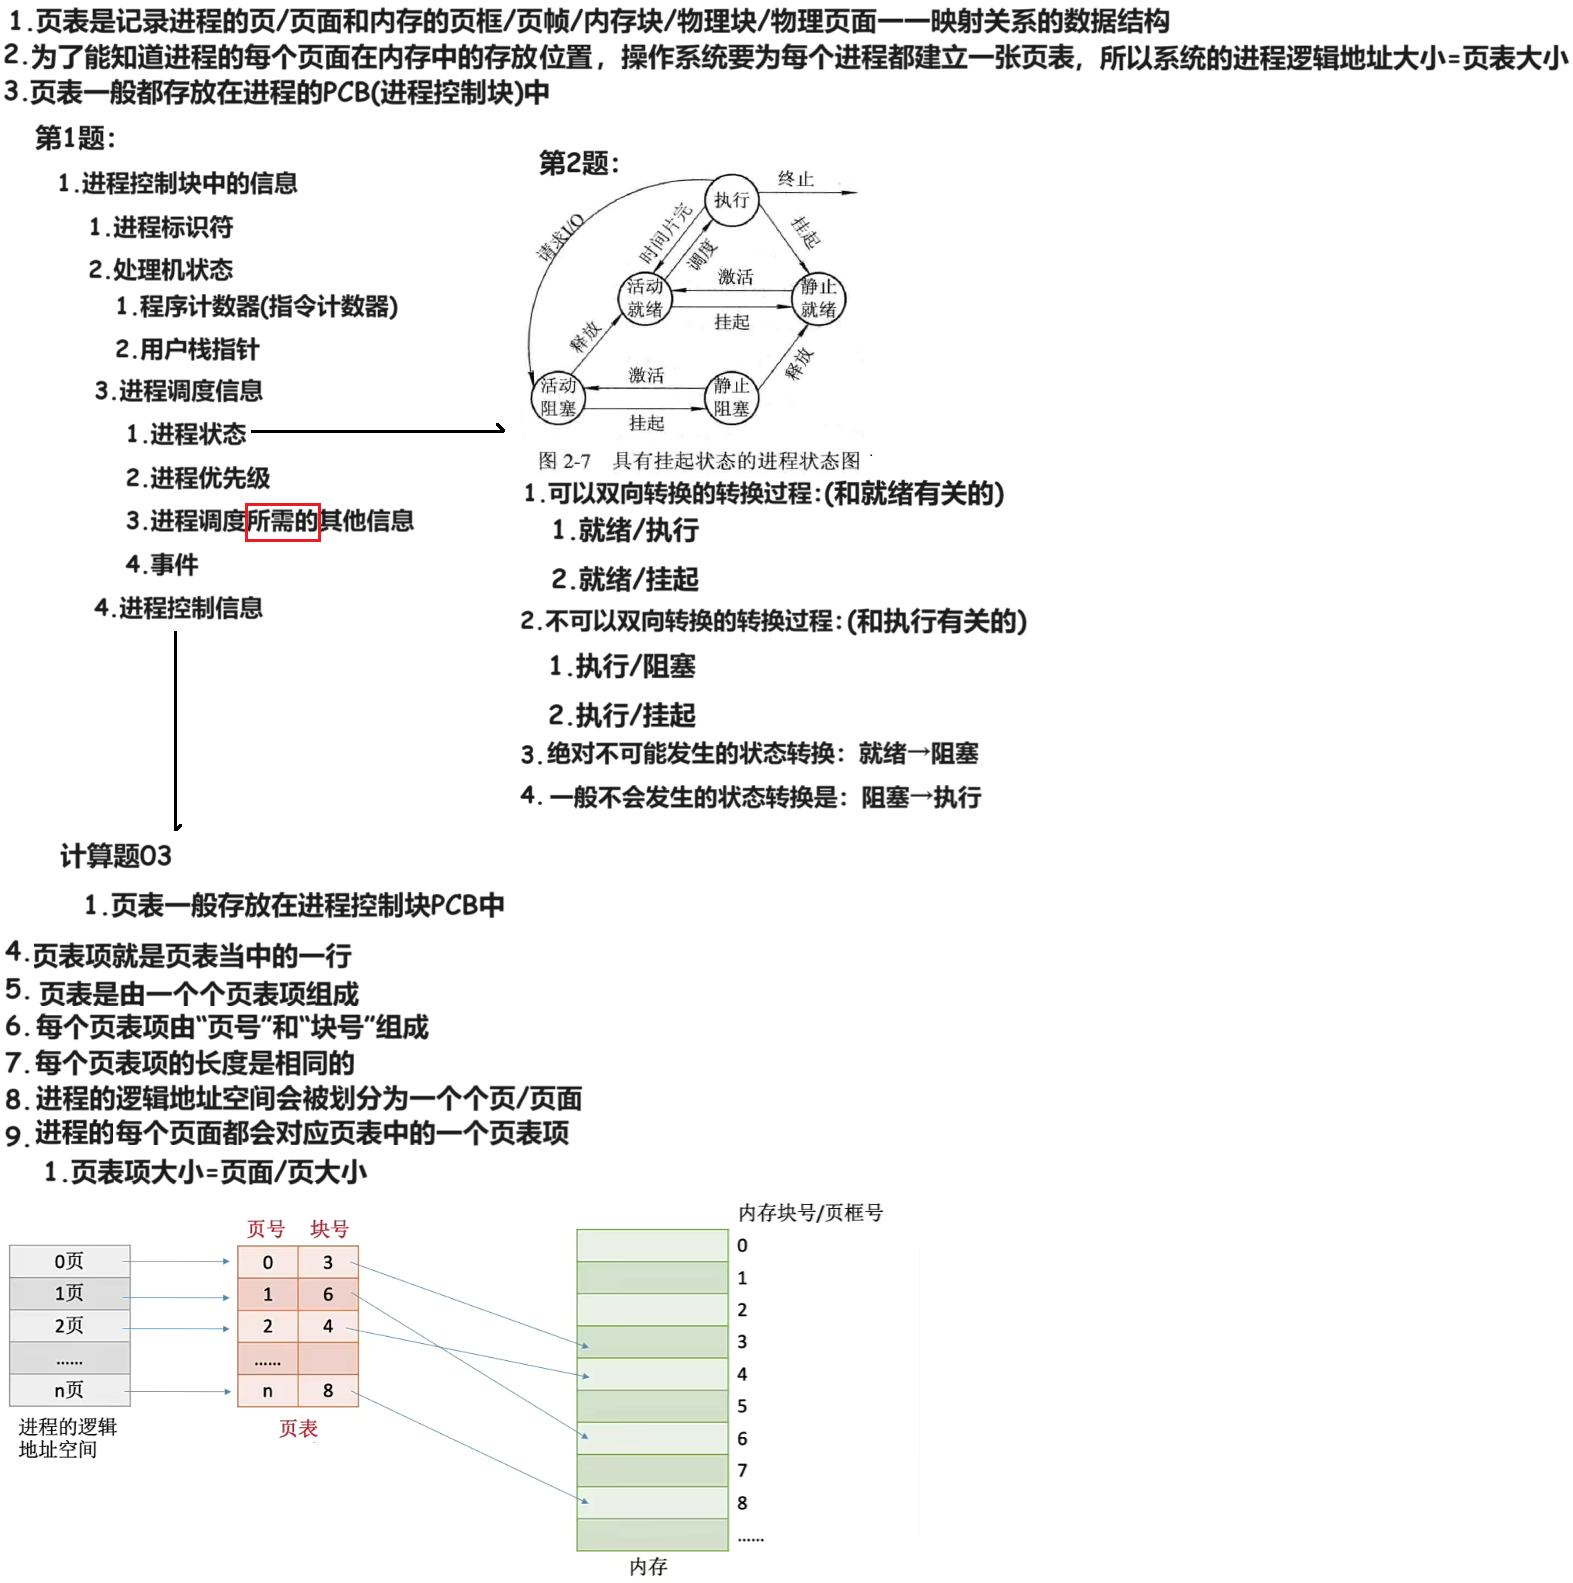
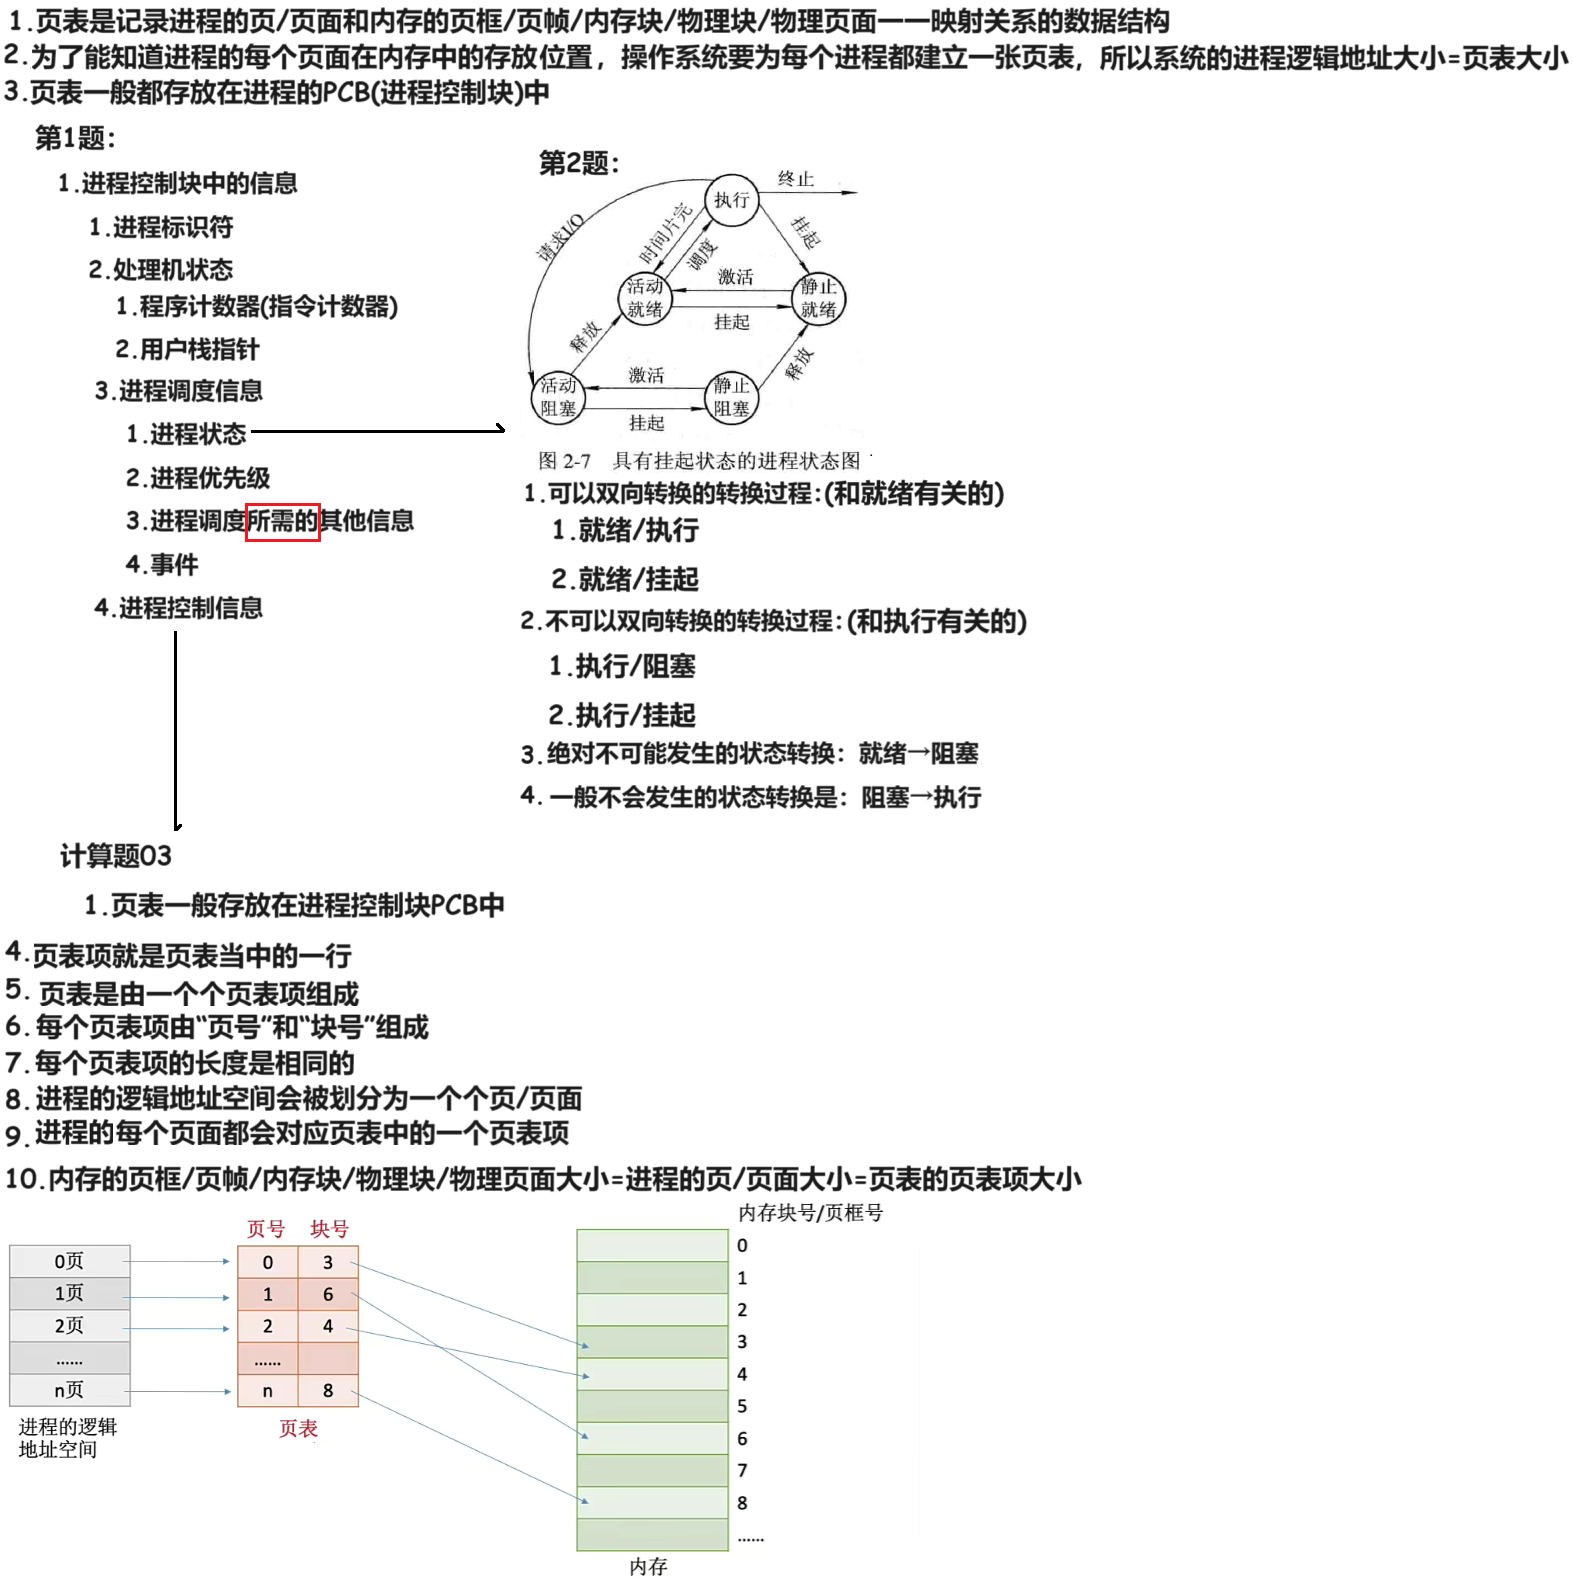
240108

Changed region(s): [[0.0, 0.7119, 0.6853, 0.7738]]

diff --git a/04 每日一题/03 操作系统知识点/03 基本分页存储管理 240108/02 Doc.md b/04 每日一题/03 操作系统知识点/03 基本分页存储管理 240108/02 Doc.md
@@ -12,4 +12,6 @@
 
 
 
-### 02 
+### 02 页表
+
+<img src="https://cvp.oss-cn-shanghai.aliyuncs.com/picgo/202401081040745.png" alt="image-20240108104000579" style="zoom: 40%;" />
